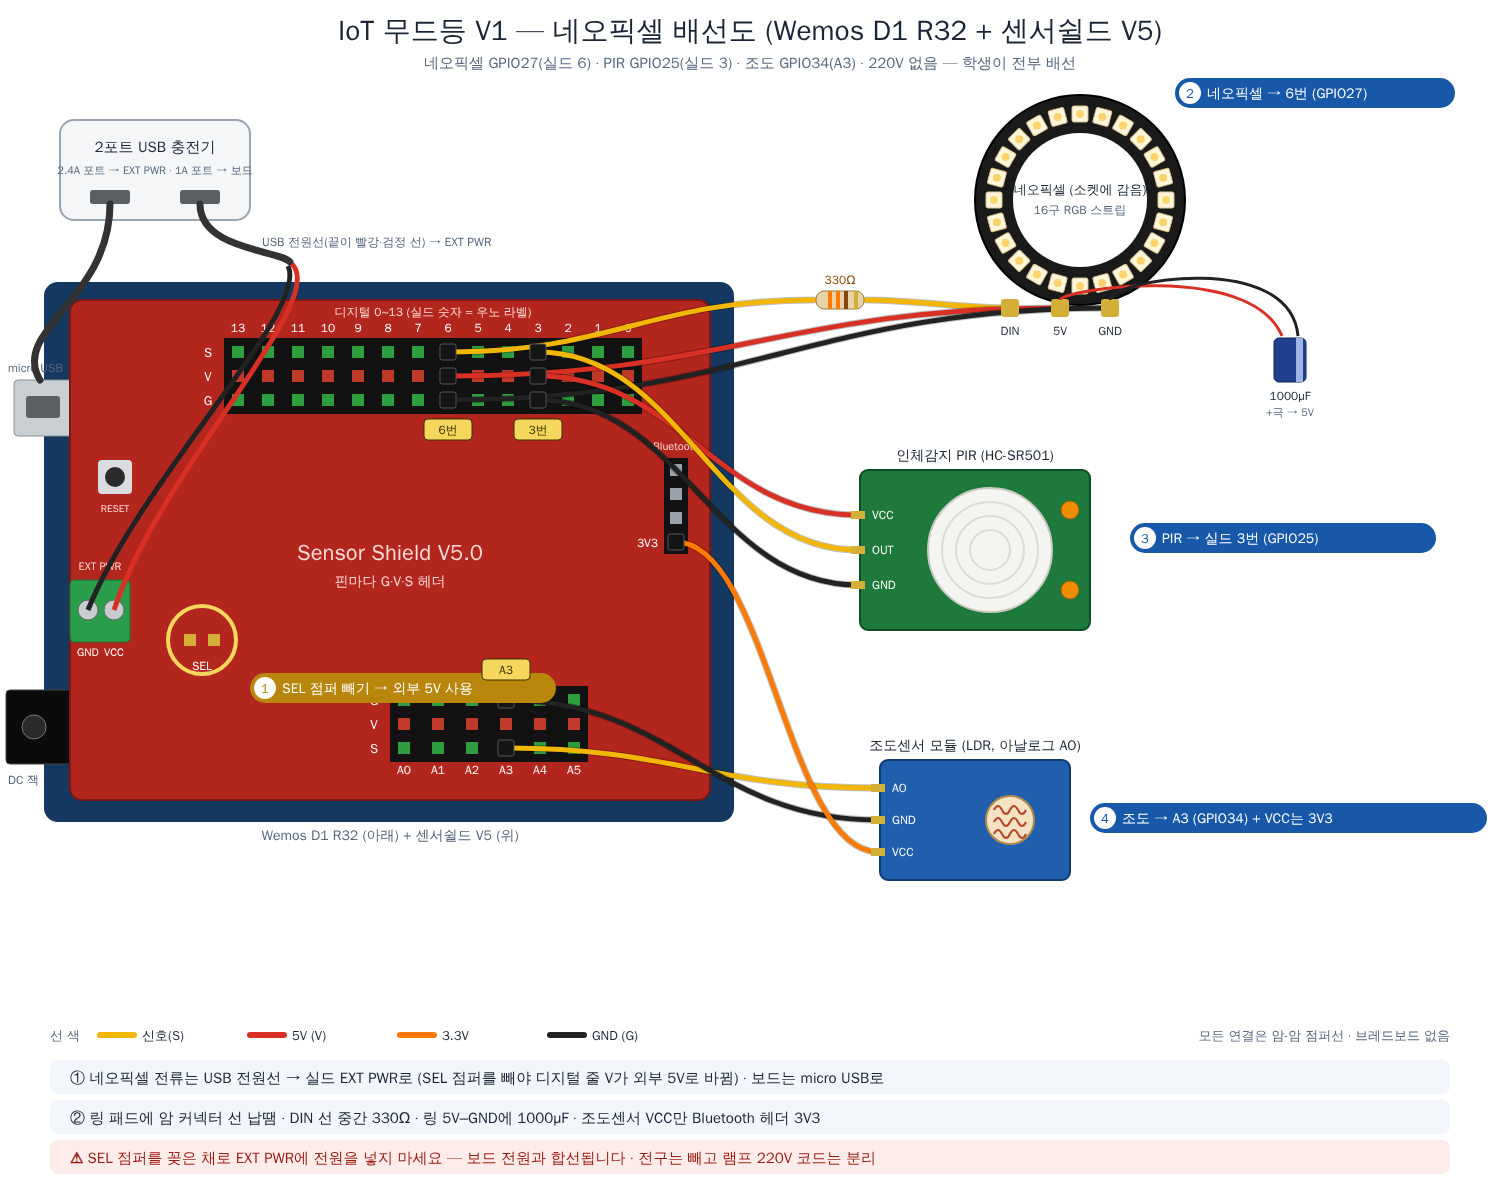
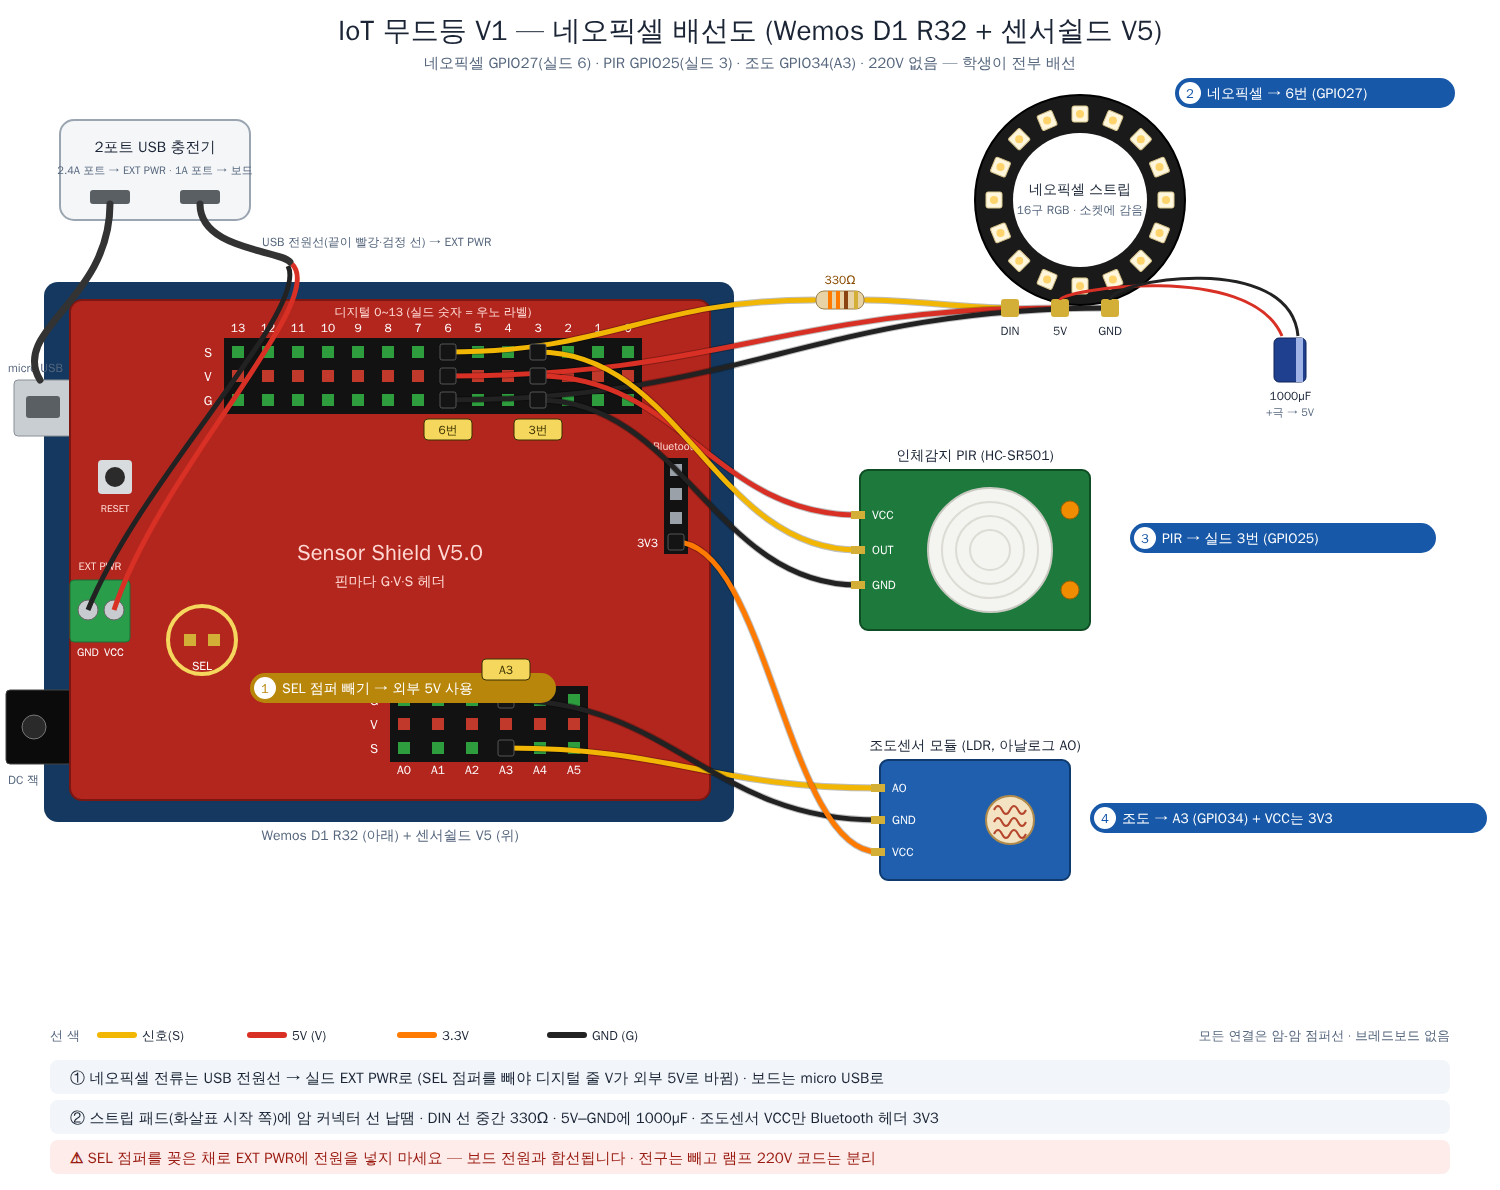
IoT 무드등 V1 배선도: 네오픽셀을 16구 스트립으로 표기
Claude-Session: https://claude.ai/code/session_013meiHivMhyCpvDxW2U27B7

diff --git a/iot-mood-lamp/docs/images/draw_wiring.py b/iot-mood-lamp/docs/images/draw_wiring.py
@@ -101,13 +101,13 @@ def ldr_module(x, y):
 def neopixel_ring(cx, cy, r=105):
     o = [f'<circle cx="{cx}" cy="{cy}" r="{r}" fill="#1a1a1a" stroke="#000" stroke-width="2"/>',
          f'<circle cx="{cx}" cy="{cy}" r="{r-38}" fill="#ffffff"/>']
-    for i in range(24):
-        a = 2 * math.pi * i / 24 - math.pi / 2
+    for i in range(16):
+        a = 2 * math.pi * i / 16 - math.pi / 2
         lx, ly = cx + (r - 19) * math.cos(a), cy + (r - 19) * math.sin(a)
         o.append(f'<rect x="{lx-8:.1f}" y="{ly-8:.1f}" width="16" height="16" rx="2" fill="#fff6dc" stroke="#d8c48c" transform="rotate({math.degrees(a):.1f} {lx:.1f} {ly:.1f})"/>')
         o.append(f'<circle cx="{lx:.1f}" cy="{ly:.1f}" r="4" fill="#ffd36b"/>')
-    o.append(t(cx, cy - 6, "네오픽셀 (소켓에 감음)", 13, "#1b2536", "bold"))
-    o.append(t(cx, cy + 14, "16구 RGB 스트립", 12, "#56677e"))
+    o.append(t(cx, cy - 6, "네오픽셀 스트립", 14, "#1b2536", "bold"))
+    o.append(t(cx, cy + 14, "16구 RGB · 소켓에 감음", 12, "#56677e"))
     pads = {"DIN": (cx - 70, cy + r + 18), "5V": (cx - 20, cy + r + 18), "GND": (cx + 30, cy + r + 18)}
     for lab, (px, py) in pads.items():
         o += [f'<rect x="{px-9}" y="{py-24}" width="18" height="18" rx="3" fill="#d4af37"/>',
@@ -309,7 +309,7 @@ def v1():
              ((ana(3, "G")[0], ANA_Y["G"] - 30), "A3")])
     o += legend(1040, ac=False)
     o += notes(1085, ["① 네오픽셀 전류는 USB 전원선 → 실드 EXT PWR로 (SEL 점퍼를 빼야 디지털 줄 V가 외부 5V로 바뀜) · 보드는 micro USB로",
-                      "② 링 패드에 암 커넥터 선 납땜 · DIN 선 중간 330Ω · 링 5V–GND에 1000µF · 조도센서 VCC만 Bluetooth 헤더 3V3"],
+                      "② 스트립 패드(화살표 시작 쪽)에 암 커넥터 선 납땜 · DIN 선 중간 330Ω · 5V–GND에 1000µF · 조도센서 VCC만 Bluetooth 헤더 3V3"],
                  "⚠ SEL 점퍼를 꽂은 채로 EXT PWR에 전원을 넣지 마세요 — 보드 전원과 합선됩니다 · 전구는 빼고 램프 220V 코드는 분리")
     return svg_doc(o, "IoT 무드등 V1 — 네오픽셀 배선도 (Wemos D1 R32 + 센서쉴드 V5)",
                    "네오픽셀 GPIO27(실드 6) · PIR GPIO25(실드 3) · 조도 GPIO34(A3) · 220V 없음 — 학생이 전부 배선")
